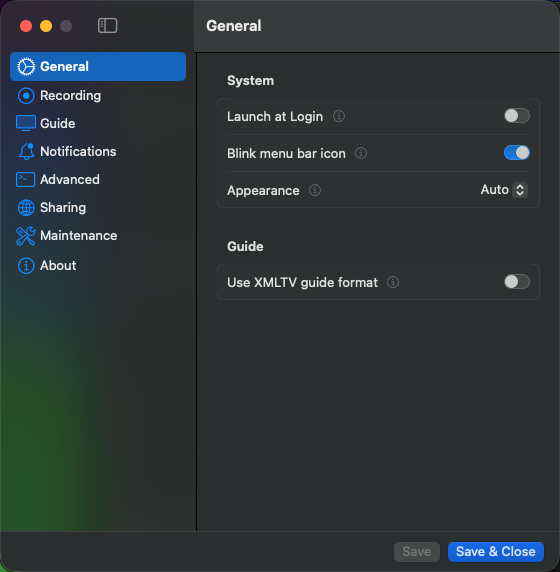
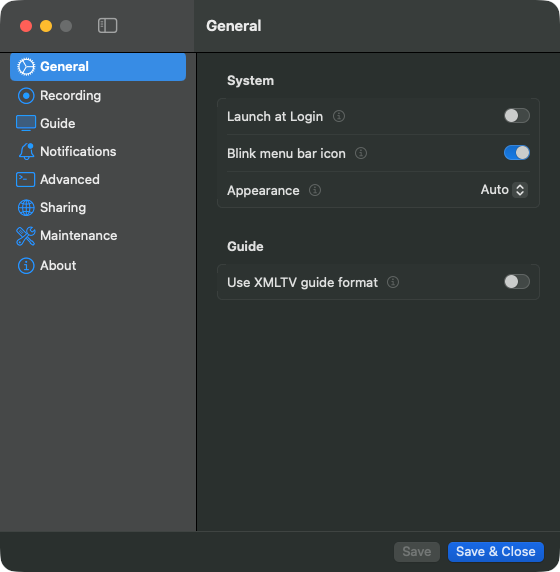
docs(screenshots): retake README screenshots in dark mode (guide, menu, submenus, Add/Edit Show, Settings, terminal guide)
recording.png still to be retaken (needs a recording in progress).

Claude-Session: https://claude.ai/code/session_01N6XTozniPaMHsoEqnyGuqS

diff --git a/README.md b/README.md
@@ -121,7 +121,7 @@ record — plus one-click **Pause**/**Delete**, right from the menu bar.
 
 | Add Show — Details | Edit Show |
 |--------------------|-----------|
-| ![Add Show details step with SeriesID type, Channel/All scope, New Only, and Other Upcoming Airings](docs/screenshots/addshow_details.png) | ![Edit Show window with SeriesID scope, New Only, and starburst bonus time badge](docs/screenshots/edit_show.png) |
+| ![Add Show details step with SeriesID type, Channel/All scope, and New Only](docs/screenshots/addshow_details.png) | ![Edit Show window with SeriesID scope, New Only, and starburst bonus time badge](docs/screenshots/edit_show.png) |
 
 Scheduling by **SeriesID** (not just title matching) means reruns and retitled episodes still get
 caught — the **Channel / All** toggle decides whether that series only records on the channel you
